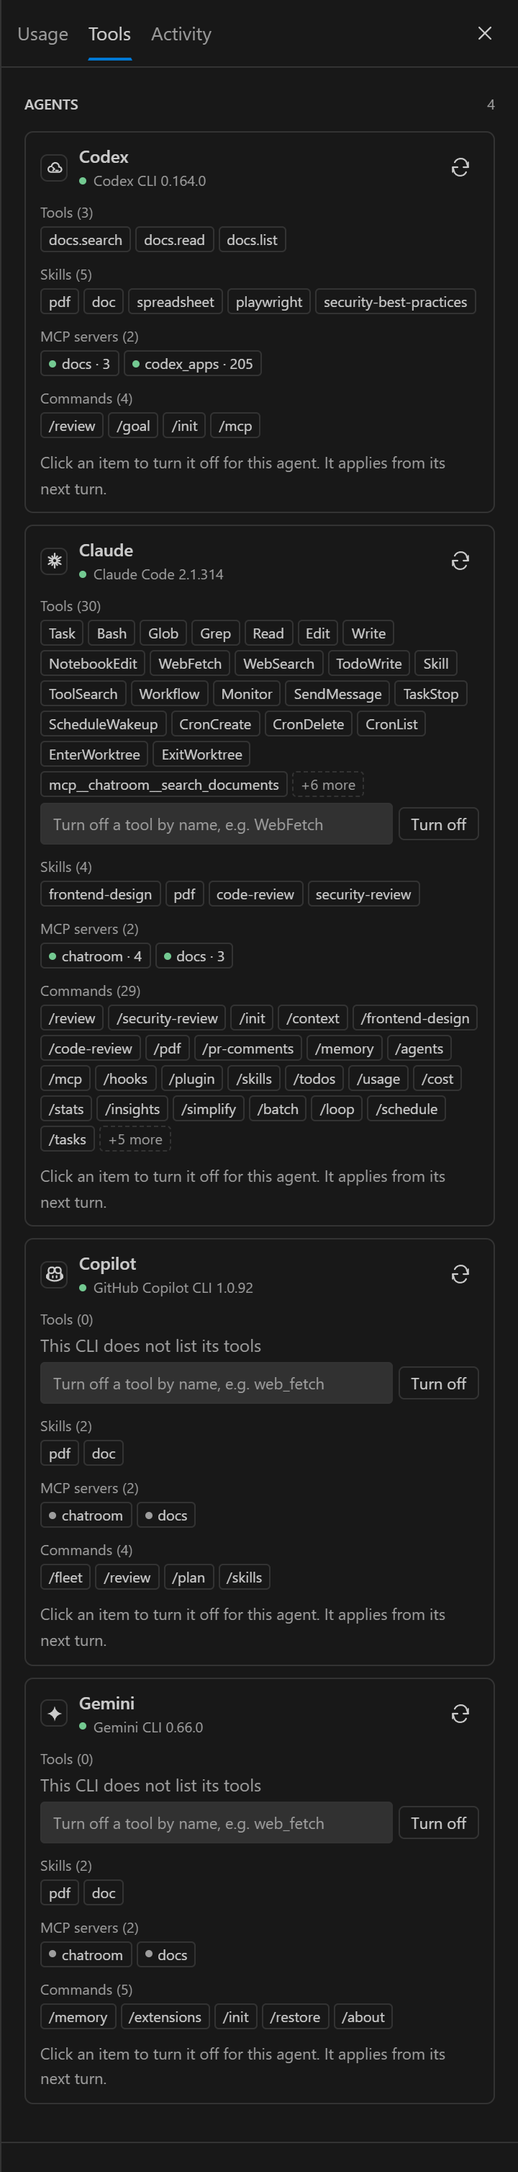
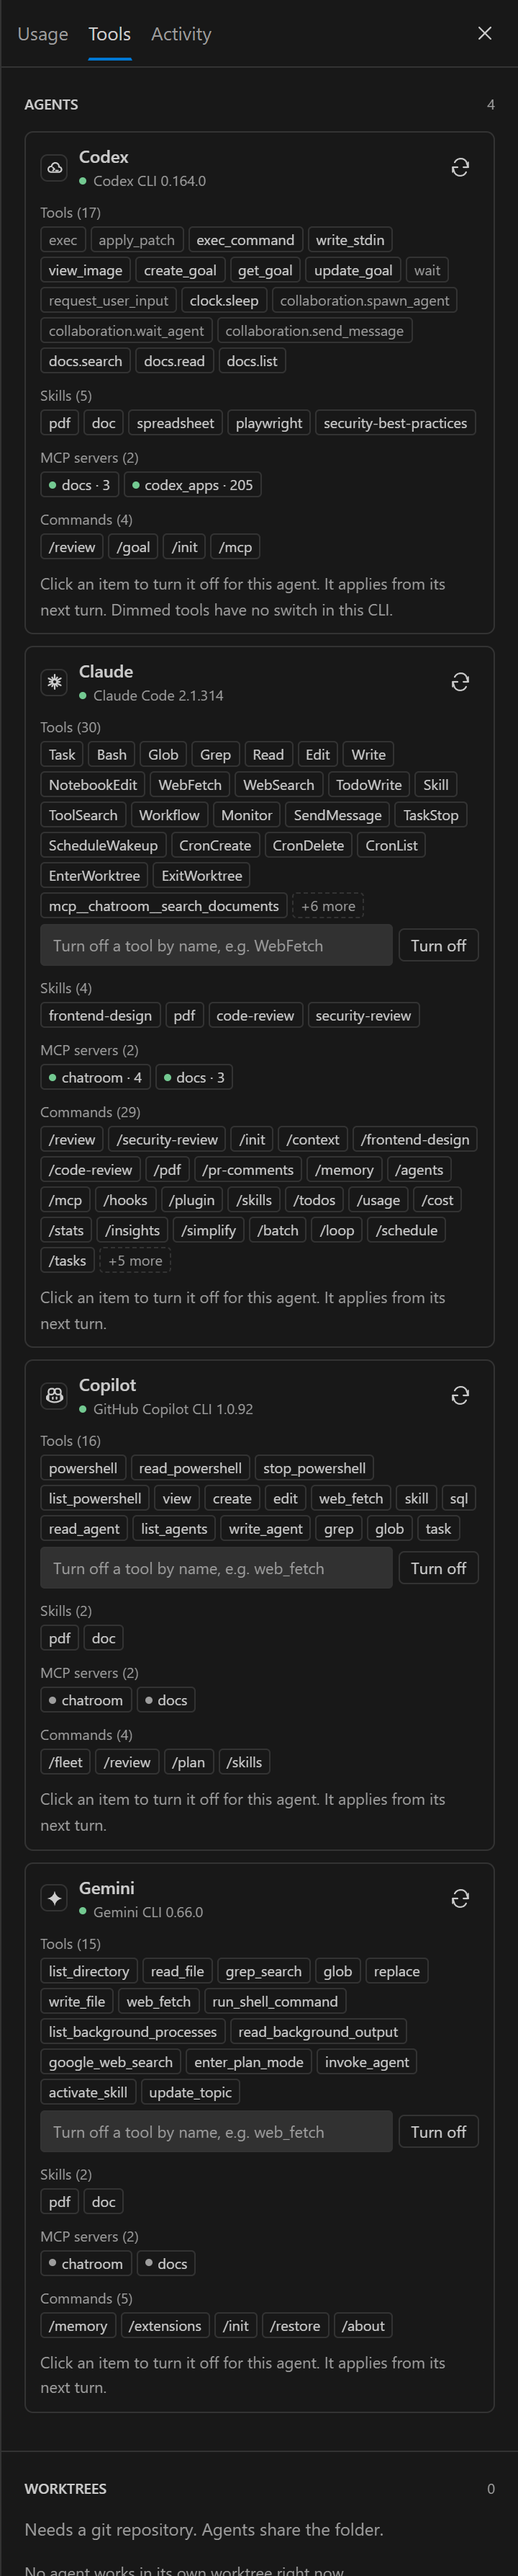
Document tool lists and switches for 0.9.0
- Describe where the tool lists come from, what can be turned off and
  what can't, and when a browser opens to sign in.
- Retake the screenshots that show the Tools tab, with the lists and the
  dimmed tools.
- Bump the version to 0.9.0 and add it to the changelog.

diff --git a/README.md b/README.md
@@ -274,8 +274,9 @@ Chatroom runs the Gemini CLI as `gemini --acp`, with its own tools, skills, MCP 
 
 - **Version:** 0.38 or newer. An older one is found and left alone: the agent says it needs an update and offers **Update Gemini CLI**, which runs `npm i -g @google/gemini-cli@latest` in a terminal.
 - **Sign-in:** it uses the login of your `gemini` command, or `GEMINI_API_KEY`. Since June 18, 2026, [Google no longer serves the Gemini CLI to free, Google One, AI Pro and AI Ultra logins](https://developers.googleblog.com/an-important-update-transitioning-gemini-cli-to-antigravity-cli/). It keeps working with a paid Gemini API key or a Gemini Code Assist Standard or Enterprise license. When Google refuses a login, the agent's card and the room say what it answered, and the other agents continue.
+- **No surprise windows:** a CLI Chatroom starts can't open a browser by itself, so a missing login shows as **Signed out**. A Google page opens only when you click **Sign in to Gemini**, which runs `gemini` in a terminal.
 - **Trust:** Chatroom runs only in folders you trust in VS Code, so it tells the CLI this folder is trusted, for that process only.
-- **Different from the other CLIs:** it doesn't list its tools, so you [turn one off by name](#turning-tools-off). It has no `/compact` here; it compresses its own session when it fills up. It has no effort levels, think harder or Ultra, and project settings (`GEMINI.md`) can't be turned off per agent.
+- **Different from the other CLIs:** it doesn't report its tools, so Chatroom [reads them](#turning-tools-off) once per CLI version. It has no `/compact` here; it compresses its own session when it fills up. It has no effort levels, think harder or Ultra, and project settings (`GEMINI.md`) can't be turned off per agent.
 - **Your files:** what Chatroom needs from the CLI goes in a small policy file in the extension's storage. Nothing is written to `~/.gemini`.
 
 <table>
@@ -292,19 +293,21 @@ The **Tools** tab lists what each agent has. Click an item to turn it off for th
 <table>
   <tr>
     <td align="center" valign="top" width="50%"><img src="docs/images/tool-switches.png" width="320" alt="Claude's card in the Tools tab with tools, a skill, an MCP server and commands struck through, and the commands list open"><br><em>Turned-off items stay listed, struck through, and the labels count them. Here the commands list is open; <b>Show fewer</b> closes it.</em></td>
-    <td align="center" valign="top" width="50%"><img src="docs/images/gemini-tools.png" width="320" alt="Gemini's card in the Tools tab with two tools turned off by name and one skill turned off"><br><em>Gemini doesn't list its tools, so these two were typed by name.</em></td>
+    <td align="center" valign="top" width="50%"><img src="docs/images/gemini-tools.png" width="320" alt="Gemini's card in the Tools tab with its tools listed, two of them turned off, and one skill turned off"><br><em>Gemini's tools, read from the CLI. Click one to turn it off.</em></td>
   </tr>
 </table>
 
 | Item | Claude Code | Codex | Copilot CLI | Gemini CLI |
 | --- | --- | --- | --- | --- |
-| Tool | Removed from the model's tools (`--disallowedTools`) | MCP tools only (`disabled_tools`) | Removed from the model's tools (`--excluded-tools`) | Denied and removed (policy rule) |
-| Skill | Hidden and refused (`skillOverrides`, deny rule) | Removed (`skills.config`) | No switch for one skill, so the list shows none | Refused when called (policy rule) |
+| Tool | Removed from the model's tools (`--disallowedTools`) | Built-in tools with a switch (`features.*`) and MCP tools (`disabled_tools`) | Removed from the model's tools (`--excluded-tools`) | Denied and removed (policy rule) |
+| Skill | Hidden and refused (`skillOverrides`, deny rule) | Removed (`skills.config`) | Refused when called (a hook for that process, from CLI 1.0.92) | Refused when called (policy rule) |
 | MCP server | All its tools removed | Turned off in the thread's config | Turned off (`--disable-mcp-server`) | All its tools denied and removed |
 | Command | Chatroom stops offering and forwarding it | Same | Same | Same |
 
-- **Listing tools:** Claude Code reports its tools after the first turn. Codex reports only MCP tools, so those are the ones listed here. Copilot and Gemini don't report theirs, so you can type a tool's name under **Tools** (for example `web_fetch`).
-- **Commands and skills:** turning a skill off also takes the slash command of the same name out of the `/` menu. A command that is off is refused with a message saying where to turn it back on.
+- **Listing tools:** Claude Code reports its tools after the first turn. Codex, Copilot and Gemini don't report their built-in tools, so Chatroom reads them once per CLI version: it starts the CLI in an empty folder with no logins, against a local stand-in for its model service, and takes the list from the first request. A local proxy refuses anything else the CLI tries to reach, so no tokens are used and nothing leaves your machine. For Claude Code, Copilot and Gemini you can still type a tool's name under **Tools**, for anything the list can't see.
+- **Codex:** `exec_command` and `write_stdin` share a switch, as do the goal tools, so they go off together. A tool gets a button only once a real run shows its switch working. Tools with no switch, such as `apply_patch`, are dimmed; use the **Plan** or **Ask** level to control edits.
+- **Copilot skills:** the CLI still lists a turned-off skill to the model, so the agent is told not to use it, and a call is refused. If the hook itself can't start, the CLI refuses every skill and nothing else.
+- **Commands and skills:** turning a skill off also takes the slash command of the same name out of the `/` menu, and clicking a skill's command turns off the skill too, which also stops the model using it. A command that is off is refused with a message saying where to turn it back on.
 
 ## Commands
 
@@ -439,6 +442,9 @@ node --import tsx scripts/test-documents.ts path\to\scan.jpg
 # The Gemini driver against a real Gemini CLI with a scripted model: no account, no tokens, nothing in ~/.gemini is read or changed.
 node --import tsx scripts/test-gemini.ts path\to\gemini-cli\bundle\gemini.js
 
+# Tool lists and switches against the real Codex, Copilot and Gemini CLIs, with a local stand-in: no account, no tokens.
+node --import tsx scripts/test-switches.ts [codex|copilot|gemini] [--gemini path\to\gemini.js] [--copilot path] [--codex path]
+
 # Optional live runs with your own logins (they use real tokens).
 node --import tsx scripts/test-team.ts path\to\scan.jpg medgemma:4b
 node --import tsx scripts/test-clients.ts [claude|codex|copilot|gemini]
@@ -452,6 +458,7 @@ node --import tsx scripts/test-clients.ts [claude|codex|copilot|gemini]
 - `src/claude-native.ts`, `src/codex-native.ts`, `src/copilot-native.ts`, `src/gemini-native.ts`: the Claude stream-json, Codex app-server, Copilot ACP and Gemini ACP drivers; `src/jsonl.ts`: JSON-lines processes and JSON-RPC.
 - `src/commands.ts`: composer parsing, mentions, hand-offs, `/loop`.
 - `src/room-tools.ts`, `src/tools.ts`, `src/tool-specs.ts`: room tools over MCP (in-process and loopback HTTP) and the legacy read-only tools.
+- `src/tool-lists.ts`: reads the tools Codex, Copilot and Gemini offer their models.
 - `src/skills.ts`: skill discovery and sharing; `src/editor-context.ts`, `src/editor-tracker.ts`: the open file and selection.
 - `src/providers.ts`, `src/catalog.ts`, `src/process.ts`: CLI discovery, model catalogs, process environment.
 - `src/extract.ts`, `src/knowledge.ts`, `src/documents.ts`, `src/ollama.ts`: documents, OCR, embeddings and Ollama.

diff --git a/CHANGELOG.md b/CHANGELOG.md
@@ -1,5 +1,16 @@
 # Changelog
 
+## 0.9.0
+
+- **Tool lists for Codex, Copilot and Gemini.** These CLIs don't report their built-in tools, so Chatroom now reads them, once per CLI version, and lists them under **Tools** to click. A read starts the CLI in an empty folder with no logins, against a local stand-in for its model service, and a local proxy refuses anything else it tries to reach: no tokens are used, nothing leaves your machine, and no window opens. You can still type a name for anything the list can't see.
+- **Codex's built-in tools can be turned off.** `exec_command` and `write_stdin`, `view_image`, the goal tools, `clock.sleep` and `web_search`, with the CLI's own switches. Codex accepts unknown keys without complaint, so a tool gets a button only once a real run shows its switch working. The rest, such as `apply_patch`, are shown dimmed.
+- **Copilot: turn off one skill.** Its own `copilot skill disable` is global, and sessions over the protocol Chatroom uses ignore it. So a small hook for that one process refuses the skill, and only skill calls start it. Needs Copilot CLI 1.0.92 or newer.
+- **A skill's command goes with its skill.** Clicking it under Commands now turns off the skill as well, which also stops the model using it.
+- **No surprise Google windows.** Agents run the Gemini CLI with browser launching turned off, so a missing login shows as Signed out instead of opening a sign-in page. A browser opens only when you click **Sign in to Gemini**, in a terminal.
+- **Fixed:** the room's notice about an agent that can't run now has its Install, Update or Sign in button, whatever the agent is called.
+- **Fixed:** turning off a Copilot tool no longer puts `Info: Disabled tools: ...` at the start of its next reply.
+- Verified in real VS Code against the real Codex, Copilot and Gemini CLIs with local stand-ins, and on Copilot 1.0.92 and 1.0.105 with `scripts/test-switches.ts`: a turned-off tool is gone from what the model is offered, and a forced call to it is refused.
+
 ## 0.8.0
 
 - **Gemini CLI.** Add it with **+**: it runs as `gemini --acp` with its own tools, skills, MCP servers and sessions, permission levels mapped to its approval modes, approval cards, and room tools over MCP. Existing rooms and new rooms are unchanged until you add it.
